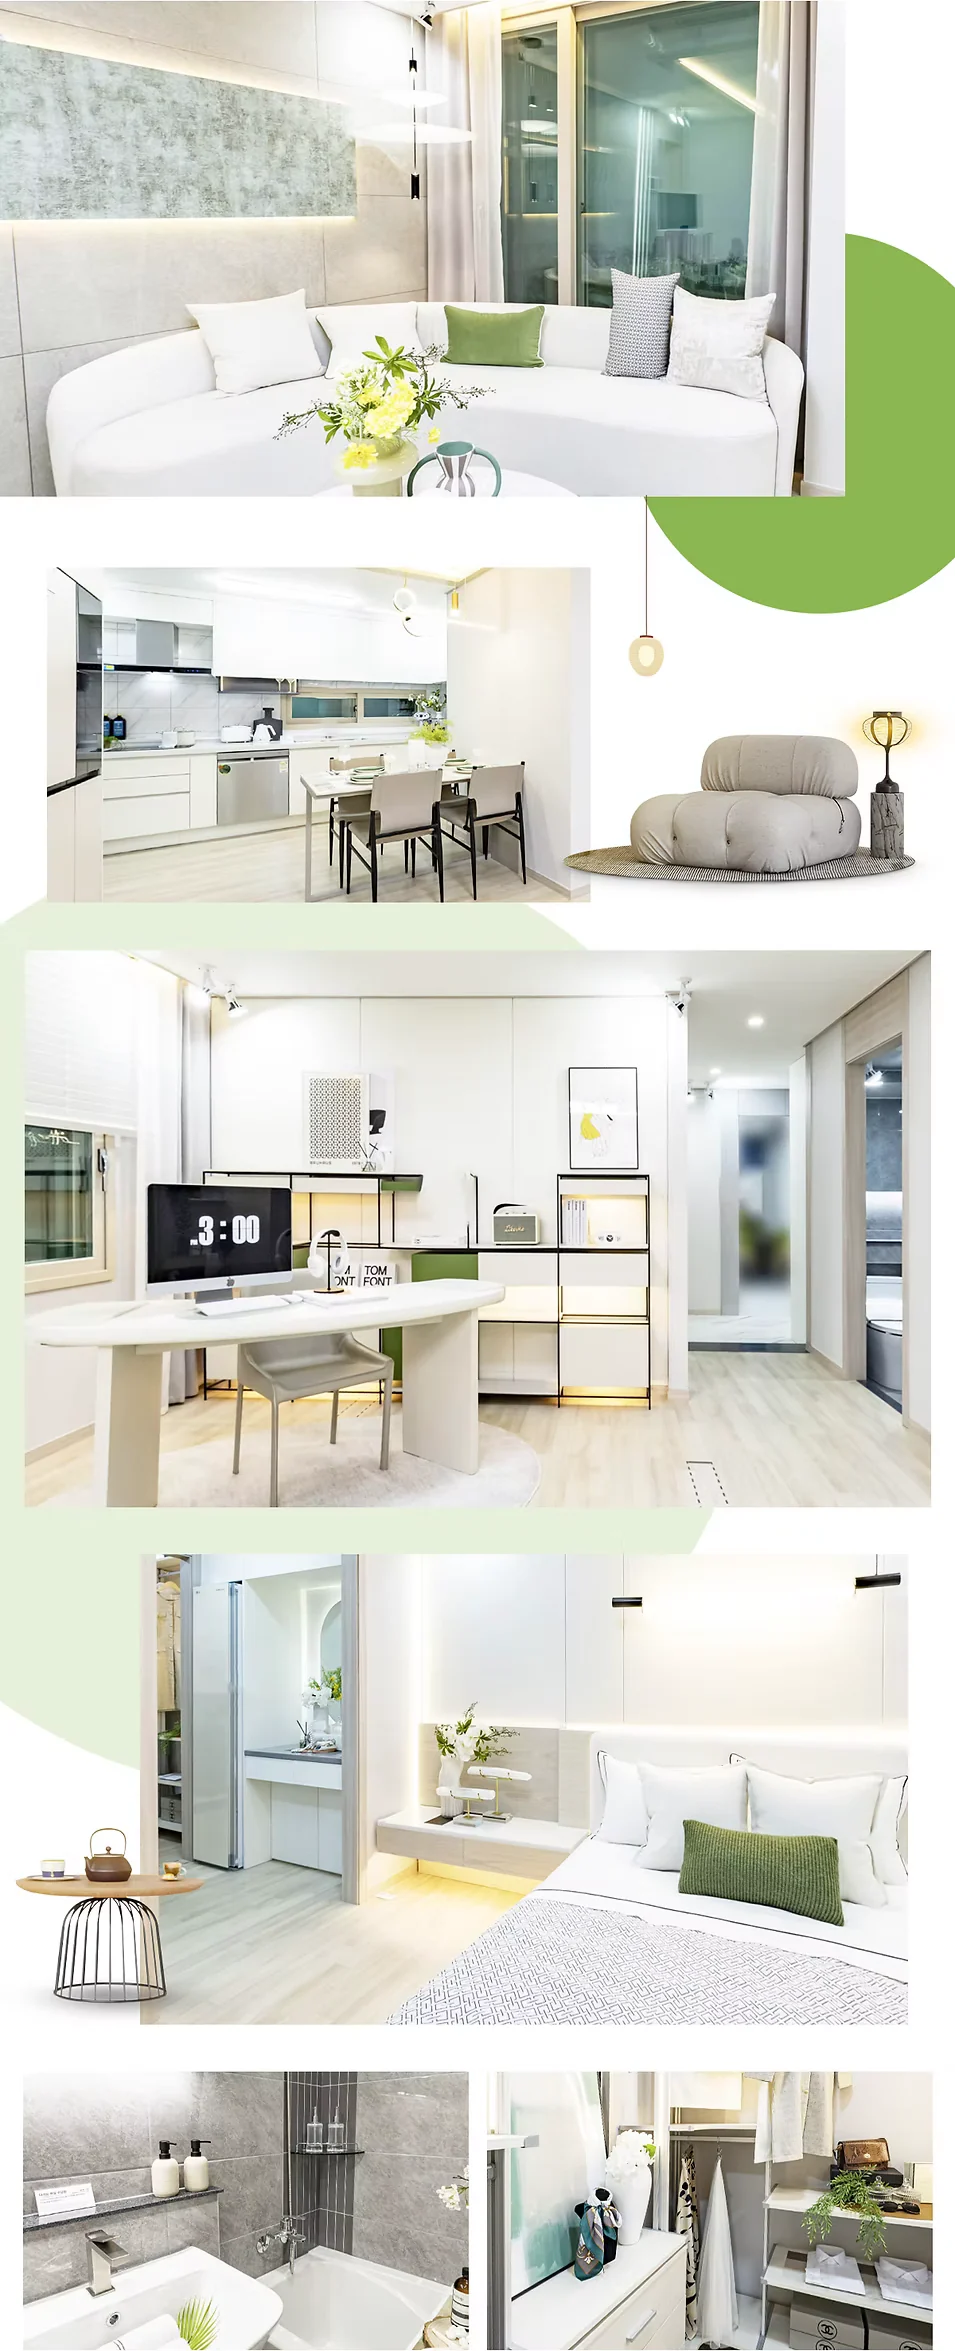
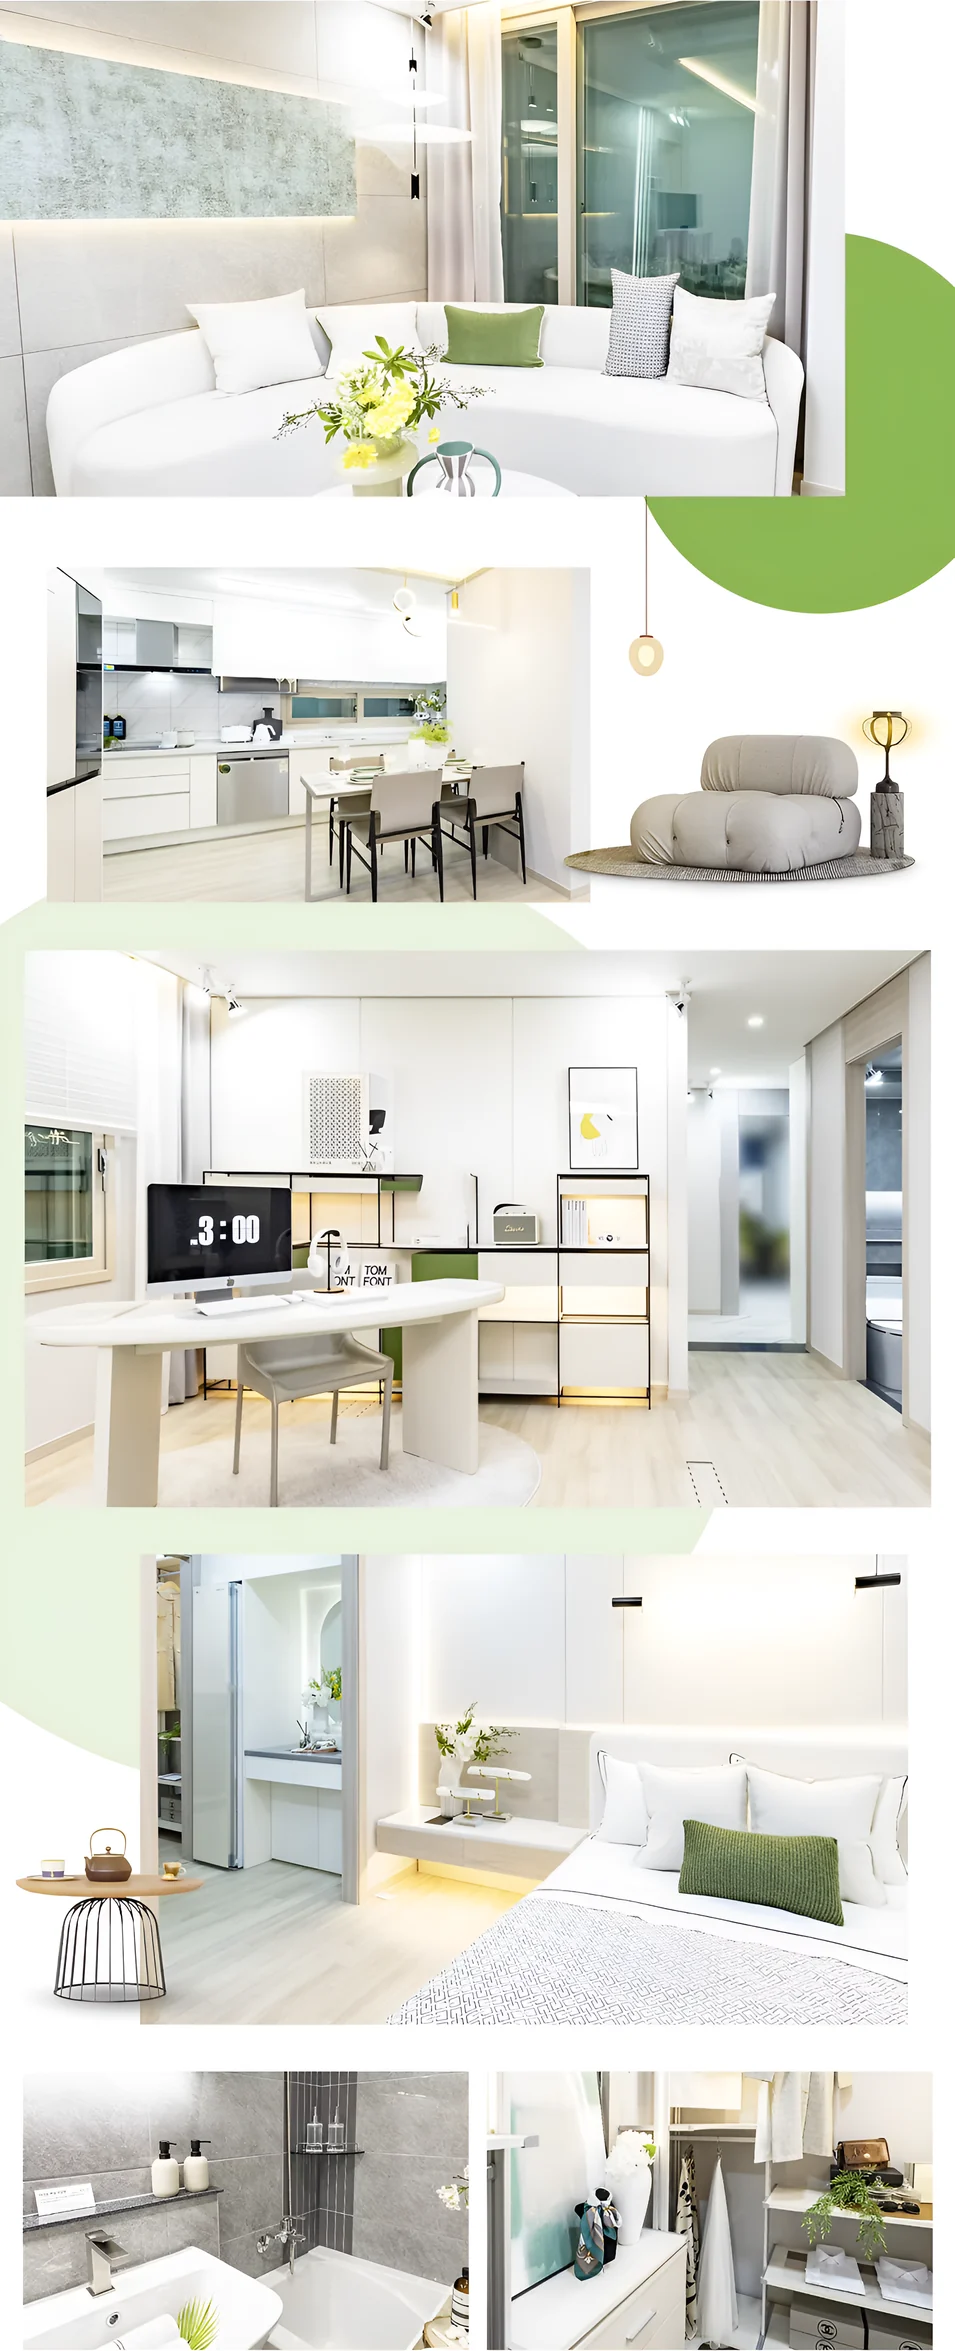
feat: 인테리어 페이지 옵션품목을 제목 아래로 옮기고 사진 모음을 2배 업스케일
- 옵션품목을 따로 둔 구역을 없애고, 넓은 화면에서는 제목 바로 아래(왼쪽 칸)에 붙임
- 사진을 내려 보는 동안 제목이 따라오던 고정(sticky)을 뺌
- 옵션 품목이 하나씩 튀어나오는 등장 애니메이션 추가
- 인테리어 사진 모음: 원본이 가로 955px 뿐이라 Real-ESRGAN 으로 2배 키운 것을 쓰고 1280px 크기 추가
- tools/upscale.py 추가, README 에 과정과 주의점 기록

diff --git a/site/styles.css b/site/styles.css
@@ -629,32 +629,35 @@ h2 b { font-weight: 700; color: var(--rose-deep); }
 @media (min-width: 64rem) { .community-plan { grid-template-columns: 7fr 5fr; gap: 3.5rem; } }
 
 /* 인테리어 사진 모음: 색 면이 양옆 끝까지 닿는 세로로 긴 한 장이라 좁은 화면에서는 화면 끝까지 붙인다.
-   원본이 가로 955px 이라 40rem 보다 크게 키우지 않는다 */
+   원본이 가로 955px 이고(2배로 키운 것을 쓴다) 40rem 보다 크게 키우지 않는다 */
 .rooms-cut { margin-inline: calc(var(--gutter) * -1); }
 .rooms-cut img { width: 100%; }
 .rooms-cut .notes { margin-inline: var(--gutter); }
-@media (min-width: 40rem) {
-  .rooms-cut { max-width: 40rem; margin-inline: auto; }
-  .rooms-cut .notes { margin-inline: 0; }
-}
-/* 넓은 화면: 긴 사진을 내려 보는 동안 제목이 옆에 붙어 따라온다 */
-@media (min-width: 64rem) {
-  .rooms-grid { display: grid; grid-template-columns: 5fr 6fr; gap: 5rem; align-items: start; }
-  .rooms .sec-head { position: sticky; top: calc(var(--header-h) + 2.5rem); margin-bottom: 0; }
-  .rooms-cut { max-width: none; margin-inline: 0; }
-}
-
-.interior { background: var(--paper); }
-.options { display: grid; gap: 1.5rem; padding: clamp(1.25rem, 4vw, 3rem); background: #fff; }
-.options img { width: 100%; max-width: 34rem; margin-inline: auto; }
+/* 옵션품목: 좁은 화면에서는 사진 모음 아래에 온다. 가전 사진은 바탕이 흰색이라 화면 끝까지 붙이지 않는다 */
+.options { margin-top: clamp(3rem, 7vw, 5.5rem); }
+.options .sec-head { margin-bottom: 1.5rem; }
+.options-cut { margin-top: 2rem; }
+.options-cut img { width: 100%; }
+.options-cut .notes { margin-top: 1.25rem; }
 .option-list { display: flex; flex-wrap: wrap; gap: 0.4rem; }
 .option-list li { padding: 0.4rem 0.9rem; background: var(--mist); font-size: 0.9375rem; font-weight: 500; }
-.options .notes { margin-top: 1.25rem; }
+@media (min-width: 40rem) {
+  .rooms-cut, .options-cut { max-width: 40rem; margin-inline: auto; }
+  .rooms-cut .notes { margin-inline: 0; }
+}
+/* 넓은 화면: 오른쪽 칸은 긴 사진 한 장, 왼쪽 칸은 제목과 그 바로 아래 옵션품목.
+   둘째 줄을 1fr 로 두어야 긴 사진의 남는 높이가 제목과 옵션품목 사이를 벌리지 않는다 */
+@media (min-width: 64rem) {
+  .rooms-grid { display: grid; grid-template: auto 1fr / 5fr 6fr; gap: 3.5rem 5rem; align-items: start; }
+  .rooms-grid > .sec-head { margin-bottom: 0; }
+  .rooms-cut { grid-column: 2; grid-row: 1 / span 2; max-width: none; margin-inline: 0; }
+  .options { grid-column: 1; margin-top: 0; }
+  .options-cut { max-width: none; margin-inline: 0; }
+}
 
 @media (min-width: 64rem) {
   .community-grid { grid-template-columns: 5fr 6fr; gap: 5rem; align-items: start; }
   .facilities li { grid-template-columns: 11rem 1fr; gap: 1.5rem; align-items: baseline; }
-  .options { grid-template-columns: 1fr 1fr; gap: 3.5rem; align-items: center; }
 }
 
 /* ── 푸터 ───────────────────────────────────── */
@@ -760,7 +763,11 @@ h2 b { font-weight: 700; color: var(--rose-deep); }
   .reveal--wipe { overflow: hidden; }
   html.io .reveal--wipe.is-in img, html.io .hub-tile.is-in img { animation: settle 1.7s var(--ease) var(--d, 0ms) backwards; }
   html.io .place.is-in > img { animation: wipe 1.25s var(--ease) calc(var(--d, 0ms) + 0.15s) backwards; }
-  html.io .options.is-in > img { animation: zoom-in 1.1s var(--ease) calc(var(--d, 0ms) + 0.15s) backwards; }
+  /* 옵션품목: 품목이 하나씩 톡 튀어나오고, 가전 사진은 커지며 자리 잡는다 */
+  html.io .option-list.is-in > li {
+    animation: pop 0.55s cubic-bezier(0.3, 1.5, 0.5, 1) calc(var(--d, 0ms) + 0.2s + var(--i, 0) * 90ms) backwards;
+  }
+  html.io .options-cut.is-in > img { animation: zoom-in 1.1s var(--ease) calc(var(--d, 0ms) + 0.15s) backwards; }
 
   /* 제목: main.js 가 어절마다 <span class="w"><span> 으로 감싸 두면 아래에서 올라온다 */
   .w { display: inline-block; clip-path: inset(-0.1em -0.1em -0.2em -0.1em); }

diff --git a/site/interior.html b/site/interior.html
@@ -17,7 +17,7 @@
 <link rel="preconnect" href="https://fonts.googleapis.com">
 <link rel="preconnect" href="https://fonts.gstatic.com" crossorigin>
 <link rel="stylesheet" href="https://fonts.googleapis.com/css2?family=Noto+Sans+KR:wght@300..800&family=Urbanist:wght@400..800&display=swap">
-<link rel="stylesheet" href="styles.css?v=e56d2067">
+<link rel="stylesheet" href="styles.css?v=82118927">
 <script src="main.js?v=911d3f46" defer></script>
 </head>
 <body>
@@ -87,27 +87,22 @@
       <p class="sec-label" lang="en">Interior</p>
     </header>
     <figure class="rooms-cut reveal">
-      <img src="assets/interior-rooms-640.webp" srcset="assets/interior-rooms-640.webp 640w, assets/interior-rooms-955.webp 955w" sizes="(min-width: 64rem) 39rem, (min-width: 40rem) 40rem, 100vw" width="955" height="2351" alt="인테리어 사진 여섯 장. 곡선형 흰 소파가 놓인 거실, 식탁이 있는 주방, 책상과 선반장을 둔 방, 파우더 공간이 딸린 침실, 욕조가 있는 욕실, 드레스룸.">
+      <img src="assets/interior-rooms-640.webp" srcset="assets/interior-rooms-640.webp 640w, assets/interior-rooms-955.webp 955w, assets/interior-rooms-1280.webp 1280w" sizes="(min-width: 64rem) 39rem, (min-width: 40rem) 40rem, 100vw" width="1280" height="3151" alt="인테리어 사진 여섯 장. 곡선형 흰 소파가 놓인 거실, 식탁이 있는 주방, 책상과 선반장을 둔 방, 파우더 공간이 딸린 침실, 욕조가 있는 욕실, 드레스룸.">
       <figcaption class="notes">※ 상기 이미지는 소비자의 이해를 돕기 위한 것으로 실제와 차이가 있을 수 있습니다.</figcaption>
     </figure>
-  </div>
-</section>
-
-<section class="section interior" aria-labelledby="interior-title">
-  <div class="wrap">
-    <header class="sec-head reveal reveal--still">
-      <h2 id="interior-title"><b>옵션품목</b></h2>
-    </header>
-    <div class="options reveal">
-      <img src="assets/interior-options-640.webp" srcset="assets/interior-options-640.webp 640w, assets/interior-options-1025.webp 1025w" sizes="(min-width: 64rem) 34rem, 88vw" width="1025" height="590" alt="옵션 가전 이미지. 스타일러, 시스템 에어컨, 드럼세탁기, 식기세척기, 김치냉장고, 냉장고, 인덕션.">
-      <div class="options-body">
-        <ul class="option-list reveal reveal--stagger">
-          <li>시스템 에어컨</li><li>발코니확장</li><li>인덕션</li><li>냉장고</li>
-          <li>김치냉장고</li><li>식기세척기</li><li>드럼세탁기</li><li>스타일러</li>
-        </ul>
-        <p class="notes reveal">상기 이미지는 소비자의 이해를 돕기 위한 것이며, 실 시공 시 제품의 품절, 품귀 또는 신제품 출시, 성능개선 등의 사유로 동급 이상의 타제품으로 변경될 수 있습니다.</p>
-      </div>
-    </div>
+    <section class="options" aria-labelledby="interior-title">
+      <header class="sec-head reveal reveal--still">
+        <h2 id="interior-title"><b>옵션품목</b></h2>
+      </header>
+      <ul class="option-list reveal reveal--stagger">
+        <li>시스템 에어컨</li><li>발코니확장</li><li>인덕션</li><li>냉장고</li>
+        <li>김치냉장고</li><li>식기세척기</li><li>드럼세탁기</li><li>스타일러</li>
+      </ul>
+      <figure class="options-cut reveal">
+        <img src="assets/interior-options-640.webp" srcset="assets/interior-options-640.webp 640w, assets/interior-options-1025.webp 1025w" sizes="(min-width: 64rem) 32rem, (min-width: 40rem) 40rem, 88vw" width="1025" height="590" loading="lazy" alt="옵션 가전 이미지. 스타일러, 시스템 에어컨, 드럼세탁기, 식기세척기, 김치냉장고, 냉장고, 인덕션.">
+        <figcaption class="notes">상기 이미지는 소비자의 이해를 돕기 위한 것이며, 실 시공 시 제품의 품절, 품귀 또는 신제품 출시, 성능개선 등의 사유로 동급 이상의 타제품으로 변경될 수 있습니다.</figcaption>
+      </figure>
+    </section>
   </div>
 </section>
 

diff --git a/pages/interior.html b/pages/interior.html
@@ -5,26 +5,21 @@
       <p class="sec-label" lang="en">Interior</p>
     </header>
     <figure class="rooms-cut reveal">
-      <img src="assets/interior-rooms-640.webp" srcset="assets/interior-rooms-640.webp 640w, assets/interior-rooms-955.webp 955w" sizes="(min-width: 64rem) 39rem, (min-width: 40rem) 40rem, 100vw" width="955" height="2351" alt="인테리어 사진 여섯 장. 곡선형 흰 소파가 놓인 거실, 식탁이 있는 주방, 책상과 선반장을 둔 방, 파우더 공간이 딸린 침실, 욕조가 있는 욕실, 드레스룸.">
+      <img src="assets/interior-rooms-640.webp" srcset="assets/interior-rooms-640.webp 640w, assets/interior-rooms-955.webp 955w, assets/interior-rooms-1280.webp 1280w" sizes="(min-width: 64rem) 39rem, (min-width: 40rem) 40rem, 100vw" width="1280" height="3151" alt="인테리어 사진 여섯 장. 곡선형 흰 소파가 놓인 거실, 식탁이 있는 주방, 책상과 선반장을 둔 방, 파우더 공간이 딸린 침실, 욕조가 있는 욕실, 드레스룸.">
       <figcaption class="notes">※ 상기 이미지는 소비자의 이해를 돕기 위한 것으로 실제와 차이가 있을 수 있습니다.</figcaption>
     </figure>
-  </div>
-</section>
-
-<section class="section interior" aria-labelledby="interior-title">
-  <div class="wrap">
-    <header class="sec-head reveal reveal--still">
-      <h2 id="interior-title"><b>옵션품목</b></h2>
-    </header>
-    <div class="options reveal">
-      <img src="assets/interior-options-640.webp" srcset="assets/interior-options-640.webp 640w, assets/interior-options-1025.webp 1025w" sizes="(min-width: 64rem) 34rem, 88vw" width="1025" height="590" alt="옵션 가전 이미지. 스타일러, 시스템 에어컨, 드럼세탁기, 식기세척기, 김치냉장고, 냉장고, 인덕션.">
-      <div class="options-body">
-        <ul class="option-list reveal reveal--stagger">
-          <li>시스템 에어컨</li><li>발코니확장</li><li>인덕션</li><li>냉장고</li>
-          <li>김치냉장고</li><li>식기세척기</li><li>드럼세탁기</li><li>스타일러</li>
-        </ul>
-        <p class="notes reveal">상기 이미지는 소비자의 이해를 돕기 위한 것이며, 실 시공 시 제품의 품절, 품귀 또는 신제품 출시, 성능개선 등의 사유로 동급 이상의 타제품으로 변경될 수 있습니다.</p>
-      </div>
-    </div>
+    <section class="options" aria-labelledby="interior-title">
+      <header class="sec-head reveal reveal--still">
+        <h2 id="interior-title"><b>옵션품목</b></h2>
+      </header>
+      <ul class="option-list reveal reveal--stagger">
+        <li>시스템 에어컨</li><li>발코니확장</li><li>인덕션</li><li>냉장고</li>
+        <li>김치냉장고</li><li>식기세척기</li><li>드럼세탁기</li><li>스타일러</li>
+      </ul>
+      <figure class="options-cut reveal">
+        <img src="assets/interior-options-640.webp" srcset="assets/interior-options-640.webp 640w, assets/interior-options-1025.webp 1025w" sizes="(min-width: 64rem) 32rem, (min-width: 40rem) 40rem, 88vw" width="1025" height="590" loading="lazy" alt="옵션 가전 이미지. 스타일러, 시스템 에어컨, 드럼세탁기, 식기세척기, 김치냉장고, 냉장고, 인덕션.">
+        <figcaption class="notes">상기 이미지는 소비자의 이해를 돕기 위한 것이며, 실 시공 시 제품의 품절, 품귀 또는 신제품 출시, 성능개선 등의 사유로 동급 이상의 타제품으로 변경될 수 있습니다.</figcaption>
+      </figure>
+    </section>
   </div>
 </section>

diff --git a/site/index.html b/site/index.html
@@ -17,7 +17,7 @@
 <link rel="preconnect" href="https://fonts.googleapis.com">
 <link rel="preconnect" href="https://fonts.gstatic.com" crossorigin>
 <link rel="stylesheet" href="https://fonts.googleapis.com/css2?family=Noto+Sans+KR:wght@300..800&family=Urbanist:wght@400..800&display=swap">
-<link rel="stylesheet" href="styles.css?v=e56d2067">
+<link rel="stylesheet" href="styles.css?v=82118927">
 <link rel="stylesheet" href="home.css?v=580ee759">
 <link rel="preload" as="image" media="(max-aspect-ratio: 4/5)" href="assets/home-hero-mobile-720.webp" imagesrcset="assets/home-hero-mobile-720.webp 720w, assets/home-hero-mobile-1080.webp 1080w" imagesizes="100vw">
 <link rel="preload" as="image" media="(min-aspect-ratio: 4/5)" href="assets/home-hero-1600.webp" imagesrcset="assets/home-hero-960.webp 960w, assets/home-hero-1600.webp 1600w, assets/home-hero-2400.webp 2400w" imagesizes="100vw">

diff --git a/site/community.html b/site/community.html
@@ -17,7 +17,7 @@
 <link rel="preconnect" href="https://fonts.googleapis.com">
 <link rel="preconnect" href="https://fonts.gstatic.com" crossorigin>
 <link rel="stylesheet" href="https://fonts.googleapis.com/css2?family=Noto+Sans+KR:wght@300..800&family=Urbanist:wght@400..800&display=swap">
-<link rel="stylesheet" href="styles.css?v=e56d2067">
+<link rel="stylesheet" href="styles.css?v=82118927">
 <script src="main.js?v=911d3f46" defer></script>
 </head>
 <body>

diff --git a/site/complex.html b/site/complex.html
@@ -17,7 +17,7 @@
 <link rel="preconnect" href="https://fonts.googleapis.com">
 <link rel="preconnect" href="https://fonts.gstatic.com" crossorigin>
 <link rel="stylesheet" href="https://fonts.googleapis.com/css2?family=Noto+Sans+KR:wght@300..800&family=Urbanist:wght@400..800&display=swap">
-<link rel="stylesheet" href="styles.css?v=e56d2067">
+<link rel="stylesheet" href="styles.css?v=82118927">
 <script src="main.js?v=911d3f46" defer></script>
 </head>
 <body>

diff --git a/site/intro.html b/site/intro.html
@@ -17,7 +17,7 @@
 <link rel="preconnect" href="https://fonts.googleapis.com">
 <link rel="preconnect" href="https://fonts.gstatic.com" crossorigin>
 <link rel="stylesheet" href="https://fonts.googleapis.com/css2?family=Noto+Sans+KR:wght@300..800&family=Urbanist:wght@400..800&display=swap">
-<link rel="stylesheet" href="styles.css?v=e56d2067">
+<link rel="stylesheet" href="styles.css?v=82118927">
 <script src="main.js?v=911d3f46" defer></script>
 </head>
 <body>

diff --git a/site/location.html b/site/location.html
@@ -17,7 +17,7 @@
 <link rel="preconnect" href="https://fonts.googleapis.com">
 <link rel="preconnect" href="https://fonts.gstatic.com" crossorigin>
 <link rel="stylesheet" href="https://fonts.googleapis.com/css2?family=Noto+Sans+KR:wght@300..800&family=Urbanist:wght@400..800&display=swap">
-<link rel="stylesheet" href="styles.css?v=e56d2067">
+<link rel="stylesheet" href="styles.css?v=82118927">
 <script src="main.js?v=911d3f46" defer></script>
 </head>
 <body>

diff --git a/site/premium.html b/site/premium.html
@@ -17,7 +17,7 @@
 <link rel="preconnect" href="https://fonts.googleapis.com">
 <link rel="preconnect" href="https://fonts.gstatic.com" crossorigin>
 <link rel="stylesheet" href="https://fonts.googleapis.com/css2?family=Noto+Sans+KR:wght@300..800&family=Urbanist:wght@400..800&display=swap">
-<link rel="stylesheet" href="styles.css?v=e56d2067">
+<link rel="stylesheet" href="styles.css?v=82118927">
 <script src="main.js?v=911d3f46" defer></script>
 </head>
 <body>

diff --git a/site/type.html b/site/type.html
@@ -17,7 +17,7 @@
 <link rel="preconnect" href="https://fonts.googleapis.com">
 <link rel="preconnect" href="https://fonts.gstatic.com" crossorigin>
 <link rel="stylesheet" href="https://fonts.googleapis.com/css2?family=Noto+Sans+KR:wght@300..800&family=Urbanist:wght@400..800&display=swap">
-<link rel="stylesheet" href="styles.css?v=e56d2067">
+<link rel="stylesheet" href="styles.css?v=82118927">
 <script src="main.js?v=911d3f46" defer></script>
 </head>
 <body>

diff --git a/tools/build_assets.py b/tools/build_assets.py
@@ -83,11 +83,12 @@ def build_photos():
     save(aerial.crop((0, 0, 2110, aerial.height)), "premium-aerial", [2110, 1100])
     options = Image.open(src("KakaoTalk_20251222_135459382_06.jpg")).convert("RGB")
     save(options.crop((140, 225, 1165, 815)), "interior-options", [1025, 640], quality=86)
-    # 인테리어 사진 모음(세로로 긴 한 장, 가로 955px). AVIF 로 받았는데 Pillow 11.0 은 AVIF 를 못 열어서
-    # ffmpeg -i 인테리어.avif -map 0:0 -frames:v 1 인테리어.png 로 풀어 둔 것을 읽는다.
-    # 맨 위 제목 글자는 페이지에서 글로 쓰므로 첫 사진(y=198)부터, 아래 여백(y>2549)도 뺀다.
-    rooms = Image.open(src("인테리어.png")).convert("RGB")
-    save(rooms.crop((0, 198, rooms.width, 2549)), "interior-rooms", [955, 640], quality=86)
+    # 인테리어 사진 모음(세로로 긴 한 장). 받은 것은 가로 955px AVIF 한 장뿐이라 두 단계로 손봐 둔 것을 읽는다.
+    #   1) Pillow 11.0 은 AVIF 를 못 열어서: ffmpeg -i 인테리어.avif -map 0:0 -frames:v 1 인테리어.png
+    #   2) 그대로는 흐려서 2배로 키움(Real-ESRGAN): python tools/upscale.py <RealESRGAN_x2plus.pth> 인테리어.png 인테리어_x2.png
+    # 맨 위 제목 글자는 페이지에서 글로 쓰므로 첫 사진(원본 y=198)부터, 아래 여백(y>2549)도 뺀다. 좌표는 2배.
+    rooms = Image.open(src("인테리어_x2.png")).convert("RGB")
+    save(rooms.crop((0, 396, rooms.width, 5098)), "interior-rooms", [1280, 955, 640], quality=86)
     terrain = Image.open(src("KakaoTalk_20251222_135459382_09.jpg")).convert("RGB")
     save(terrain.crop((290, 930, 3650, 2500)), "intro-terrain", [2000, 1000])
 

diff --git a/tools/upscale.py b/tools/upscale.py
@@ -1,0 +1,22 @@
+"""저해상도 사진 한 장을 초해상도 모델로 키운다 (원본을 못 받은 사진의 임시 처방).
+
+실행: python tools/upscale.py <모델.pth> <입력> <출력.png>   (torch + CUDA, spandrel 필요)
+모델: https://github.com/xinntao/Real-ESRGAN/releases/download/v0.2.1/RealESRGAN_x2plus.pth
+없던 디테일을 그려 넣는 방식이라 결과는 눈으로 확인하고 쓴다. 원본을 받으면 이 단계는 뺀다.
+"""
+import sys
+
+import numpy as np
+import torch
+from PIL import Image
+from spandrel import ModelLoader
+
+weights, src, dst = sys.argv[1:4]
+model = ModelLoader().load_from_file(weights).cuda().eval()
+im = np.asarray(Image.open(src).convert("RGB"), dtype=np.float32) / 255
+x = torch.from_numpy(im).permute(2, 0, 1)[None].cuda()
+with torch.inference_mode():
+    y = model(x)
+out = (y[0].permute(1, 2, 0).clamp(0, 1).cpu().numpy() * 255).round().astype(np.uint8)
+Image.fromarray(out).save(dst)
+print(model.architecture.name, f"x{model.scale}", im.shape[1::-1], "->", out.shape[1::-1])
